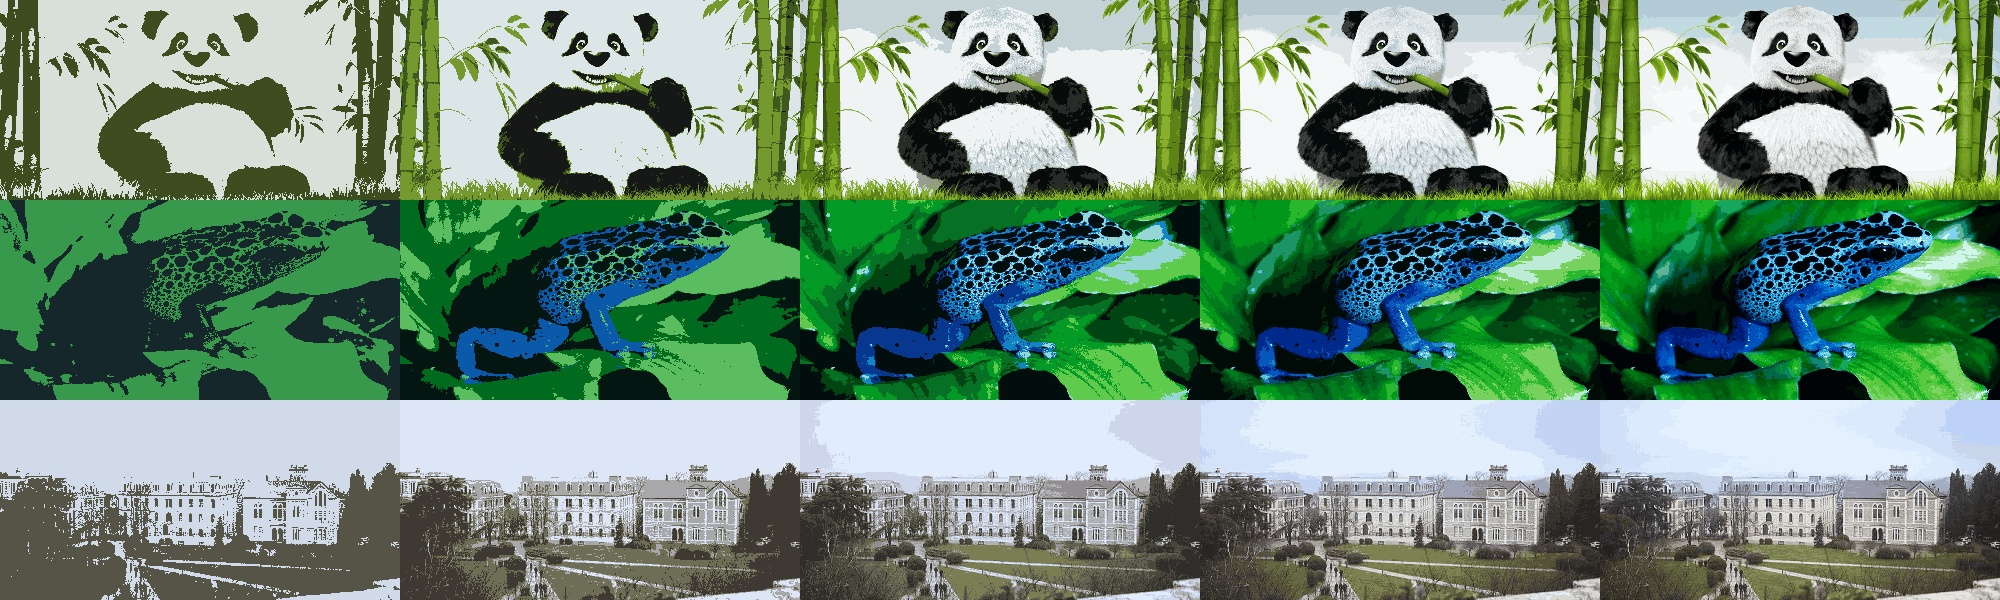
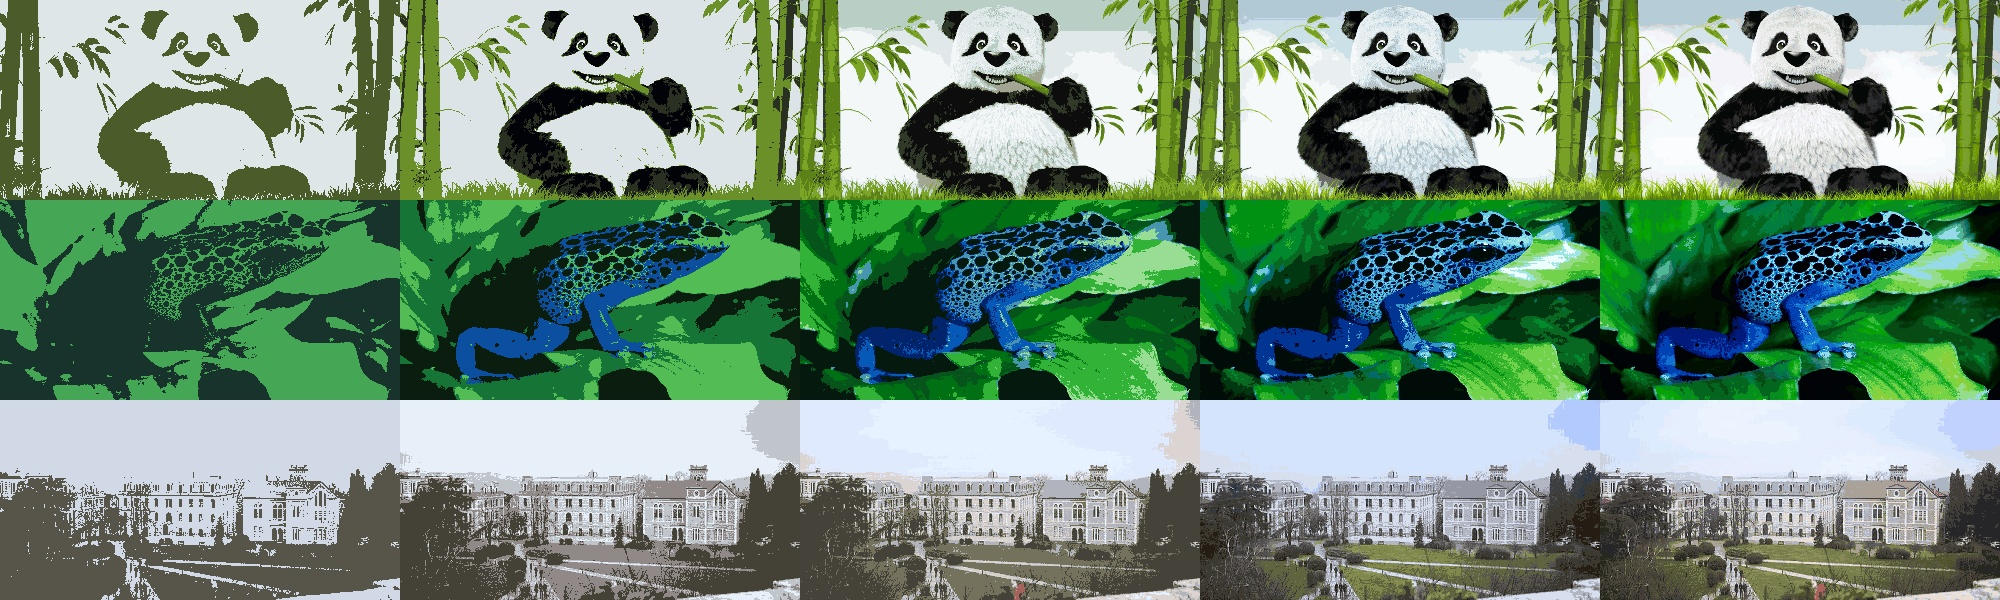
connected component initiated

diff --git a/Color Quantization and Connected Component Analysis/Color Quantization.py b/Color Quantization and Connected Component Analysis/Color Quantization.py
@@ -4,16 +4,28 @@ from sklearn.cluster import KMeans
 from picker import color_picker
 
 import os
-cwd = os.path.dirname(os.path.realpath(__file__))
+file_path = os.path.dirname(os.path.realpath(__file__))
 
-############### HYPERPARAMETERS ###################
+############################### HYPERPARAMETERS ##############################
 
-USE_SKLEARN = True
-PICKER = True
+# Uses SKLearn insted of my method. Used for verification.
+USE_SKLEARN = False
+
+# Use picker to determine initial cluster centers.
+PICKER = False
+
+# Resize images to fit in a rectangle.
 IMAGE_SIZE = (400, 200)
-IMAGE_QUERY = ['cq1.jpeg', 'cq2.jpeg', 'cq3.jpeg']
 
-###################################################
+# Images to be processed.
+IMAGE_QUERY = [file_path + '/cq1.jpeg',
+               file_path + '/cq2.jpeg',
+               file_path + '/cq3.jpeg']
+
+# Output file
+OUTPUT_IMAGE = file_path + '/results.jpeg'
+
+###############################################################################
 
 
 def convert_to_image(shape, clusters, centers):
@@ -21,40 +33,35 @@ def convert_to_image(shape, clusters, centers):
     img = np.reshape(colors, shape)
     return cv2.cvtColor(img.astype(np.uint8), cv2.COLOR_LAB2BGR)
 
-def find_nearest(cluster_centers, data, len, dim, Ks):
-    labeled_data = np.empty((0,dim+1), dtype=int)
-    for i in range(len):
-        distances = [np.square(data[i]-cluster_centers[K]).sum() for K in range(Ks)]
-        labeled_row = np.hstack((data[i], [np.argmin(distances)]))
-        labeled_data = np.vstack((labeled_data, labeled_row))
-    return labeled_data
+def find_nearest(cluster_centers, data):
+    label = np.empty((data.shape[0],), dtype=int)
+    for i in range(data.shape[0]):
+        distances = [np.square(data[i]-cluster_centers[K]).sum() for K in range(cluster_centers.shape[0])]
+        label[i] = np.argmin(distances)
+    return label
 
 class custom_kmeans:
     def __init__(self, K, dims, range=(0,1)):
         self.cluster_centers_ = np.random.random((K, dims), )* (range[1]-range[0]) +range[0]
-        self.cluster_centers_ = self.cluster_centers_.astype(np.uint8)
-        self.labels_ = []
 
     def fit(self, data):
-        i = 1
         while True:
-            labeled_data = find_nearest(self.cluster_centers_, data, data.shape[0], data.shape[1], self.cluster_centers_.shape[0])
+            label = find_nearest(self.cluster_centers_, data)
             isChanged = False
             for K in range(self.cluster_centers_.shape[0]):
-                cluster = labeled_data[:,-1]
-                cluster = np.where(cluster == K)
+                cluster = np.where(label == K)
                 if cluster[0].shape[0]<1:
                     self.cluster_centers_[K] = data[np.random.randint(0, data.shape[0])]
                     continue
-                cluster = labeled_data[cluster]
-                new_point = cluster[:,:-1].mean(axis=0).astype(np.uint8)
+                cluster = data[cluster]
+                new_point = cluster.mean(axis=0)
                 if not np.allclose(self.cluster_centers_[K],new_point, atol=10):
                     self.cluster_centers_[K] = new_point
                     isChanged = True
-            i += 1
             if not isChanged:
                 break
-        self.labels_ = labeled_data[:,-1]
+            self.labels_ = label
+        self.cluster_centers_ = self.cluster_centers_.astype(np.uint8)
         return self
 
 
@@ -69,7 +76,7 @@ if __name__ == '__main__':
     if USE_SKLEARN:
         for file in IMAGE_QUERY:
             print(f'Processing {file}')
-            image = cv2.imread(cwd + '/' + file)
+            image = cv2.imread(file)
             image = cv2.resize(image, (width, heigth))
             image = cv2.cvtColor(image, cv2.COLOR_BGR2LAB)
             row = np.empty((heigth,0,3), dtype=np.uint8)
@@ -85,7 +92,7 @@ if __name__ == '__main__':
     else:
         for file in IMAGE_QUERY:
             print(f'Processing {file}')
-            image = cv2.imread(cwd + '/' + file)
+            image = cv2.imread(file)
             image = cv2.resize(image, (width, heigth))
             image = cv2.cvtColor(image, cv2.COLOR_BGR2LAB)
             row = np.empty((heigth,0,3), dtype=np.uint8)
@@ -100,4 +107,4 @@ if __name__ == '__main__':
             results = np.vstack((results, row))
 
 
-    cv2.imwrite('results.jpeg', results)
+    cv2.imwrite(OUTPUT_IMAGE, results)

diff --git a/Color Quantization and Connected Component Analysis/Connected Component Analysis.py b/Color Quantization and Connected Component Analysis/Connected Component Analysis.py
@@ -1,0 +1,76 @@
+import numpy as np
+import cv2
+from matplotlib import pyplot as plt
+
+
+import os
+
+from numpy.lib.arraysetops import union1d
+file_path = os.path.dirname(os.path.realpath(__file__))
+
+def label_adj(mask, x, y, segmentation):
+    # Check Right
+    if x<mask.shape[1] and mask[y,x+1] == 1 and segmentation[y, x+1]==0:
+        segmentation[y, x+1] = segmentation[y, x]
+        segmentation = label_adj(mask, x+1, y, segmentation)
+    # Check Bottom-Right
+    if x<mask.shape[1] and y<mask.shape[0] and mask[y+1,x+1] == 1 and segmentation[y+1, x+1]==0:
+        segmentation[y+1, x+1] = segmentation[y, x]
+        segmentation = label_adj(mask, x+1, y+1, segmentation)
+    # Check Top-Right
+    if x<mask.shape[1] and y>0 and mask[y-1,x+1] == 1 and segmentation[y-1, x+1]==0:
+        segmentation[y-1, x+1] = segmentation[y, x]
+        segmentation = label_adj(mask, x+1, y-1, segmentation)
+    # Check Bottom
+    if y<mask.shape[0] and mask[y+1,x] == 1 and segmentation[y+1, x]==0:
+        segmentation[y+1, x] = segmentation[y, x]
+        segmentation = label_adj(mask, x, y+1, segmentation)
+    # Check Top
+    if y>0 and mask[y-1,x] == 1 and segmentation[y-1, x]==0:
+        segmentation[y-1, x] = segmentation[y, x]
+        segmentation = label_adj(mask, x, y-1, segmentation)
+    # Check Bottom-Left
+    if x>0 and y<mask.shape[0] and mask[y+1,x-1] == 1 and segmentation[y+1, x-1]==0:
+        segmentation[y+1, x-1] = segmentation[y, x]
+        segmentation = label_adj(mask, x-1, y+1, segmentation)
+    # Check Left
+    if x>0 and mask[y,x-1] == 1 and segmentation[y, x-1]==0:
+        segmentation[y, x-1] = segmentation[y, x]
+        segmentation = label_adj(mask, x-1, y, segmentation)
+    # Check Top-Left
+    if x>0 and y>0 and mask[y-1,x-1] == 1 and segmentation[y-1, x-1]==0:
+        segmentation[y-1, x-1] = segmentation[y, x]
+        segmentation = label_adj(mask, x-1, y-1, segmentation)
+    return segmentation
+
+
+def connected_components(img_threshold):
+    object_count = 0
+    segmentation = np.zeros(img_threshold.shape, dtype=int)
+
+    for y in range(img_threshold.shape[0]):
+        for x in range(img_threshold.shape[1]):
+            if img_threshold[y,x] == 1 and segmentation[y,x] == 0:
+                segmentation[y,x] = object_count + 1
+                object_count += 1
+                segmentation = label_adj(img_threshold, x, y, segmentation)
+
+    return segmentation, object_count
+
+
+# Birds
+images = [file_path + '/birds1.jpg',
+          file_path + '/birds2.jpg',
+          file_path + '/birds3.jpg']
+
+
+image = cv2.imread(images[0], 0)
+image_threshold = (image < 100).astype(np.float32)
+image_dilated = cv2.dilate(image_threshold, np.ones((5,5)), iterations=1)
+
+result, count = connected_components(image_dilated)
+
+print(f'{count} objects detected!')
+
+plt.imshow(result, cmap='gist_ncar')
+plt.show()
